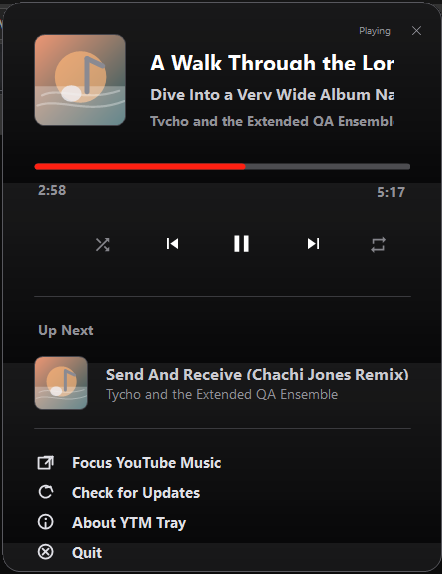
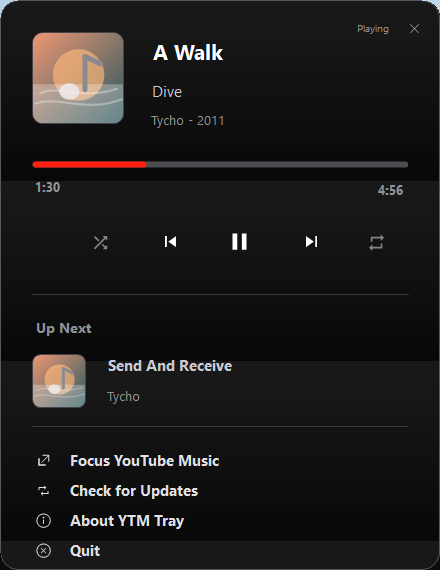
fix(windows-tray): keep stale playback controls accessible

diff --git a/tests/e2e/fixtures/player-loaded-paused.html b/tests/e2e/fixtures/player-loaded-paused.html
@@ -78,6 +78,7 @@
       </div>
       <span id="time-info">1:23 / 4:56</span>
       <input id="progress-bar" max="296" min="0" type="range" value="83" />
+      <video class="html5-main-video"></video>
       <ytmusic-player-queue-item selected>
         <img
           class="image"
@@ -117,9 +118,44 @@
         window.__ytmTestEvents.push("window-focused");
       });
       const playPauseButton = document.querySelector("#play-pause-button");
+      const progressBar = document.querySelector("#progress-bar");
+      const timeInfo = document.querySelector("#time-info");
+      const video = document.querySelector("video.html5-main-video");
+      let progressTimer = null;
+
+      function formatTime(totalSeconds) {
+        const minutes = Math.floor(totalSeconds / 60);
+        const seconds = String(totalSeconds % 60).padStart(2, "0");
+        return `${minutes}:${seconds}`;
+      }
+
+      function publishMediaUpdate(eventName = "timeupdate") {
+        video.dispatchEvent(new Event(eventName));
+        if (eventName !== "timeupdate") {
+          video.dispatchEvent(new Event("timeupdate"));
+        }
+      }
+
+      function advanceProgress() {
+        const max = Number(progressBar.max);
+        const current = Number(progressBar.value);
+        const next = Math.min(max, current + 1);
+        progressBar.value = String(next);
+        timeInfo.textContent = `${formatTime(next)} / ${formatTime(max)}`;
+        publishMediaUpdate();
+      }
+
+      function startProgressUpdates() {
+        if (progressTimer !== null) return;
+        progressTimer = window.setInterval(advanceProgress, 1000);
+      }
+
       playPauseButton.addEventListener("click", () => {
         playPauseButton.setAttribute("title", "Pause");
         playPauseButton.setAttribute("aria-label", "Pause");
+        startProgressUpdates();
+        advanceProgress();
+        publishMediaUpdate("play");
         window.__ytmTestEvents.push("player-play-clicked");
         window.__ytmTestEvents.push("player-play-pause-clicked");
       });

diff --git a/tests/e2e/windows-tray-connector.spec.ts b/tests/e2e/windows-tray-connector.spec.ts
@@ -412,11 +412,25 @@ function Save-RectangleScreenshot {
   }
 }
 
+function Move-CursorAwayFromRectangle {
+  param([Parameter(Mandatory = $true)] $Rect)
+  $ScreenBounds = [System.Windows.Forms.Screen]::PrimaryScreen.Bounds
+  $X = [int]($ScreenBounds.Right - 16)
+  $Y = [int]($ScreenBounds.Top + 16)
+  if ($Rect.Contains($X, $Y)) {
+    $X = [int]($ScreenBounds.Left + 16)
+    $Y = [int]($ScreenBounds.Bottom - 16)
+  }
+  [NativeInput]::SetCursorPos($X, $Y) | Out-Null
+  Start-Sleep -Milliseconds 700
+}
+
 function Save-TrayPopupScreenshot {
   param([Parameter(Mandatory = $true)][string] $Path)
   $PopupWindow = Open-TrayPopup
   Activate-Window $PopupWindow
-  Save-RectangleScreenshot -Path $Path -Rect $PopupWindow.Current.BoundingRectangle -Padding 2
+  Move-CursorAwayFromRectangle $PopupWindow.Current.BoundingRectangle
+  Save-RectangleScreenshot -Path $Path -Rect $PopupWindow.Current.BoundingRectangle -Padding 0
 }
 
 function Click-PopupElementByName {
@@ -644,7 +658,7 @@ test("routes Windows tray buttons through the browser native messaging host", as
     await expectFixtureEvent(ytmPage, "player-play-clicked");
     await expectFixtureEvent(ytmPage, "player-play-pause-clicked");
     if (promoScreenshotPath && testInfo.project.name === "edge") {
-      await ytmPage.waitForTimeout(1500);
+      await ytmPage.waitForTimeout(500);
       await captureTrayPromoScreenshot(
         testInfo.outputPath("tray-screenshot.json"),
         promoScreenshotPath,

diff --git a/tests/apps/windows-tray-scaffold.test.ts b/tests/apps/windows-tray-scaffold.test.ts
@@ -124,10 +124,14 @@ describe("Windows tray connector scaffold", () => {
     expect(popupForm).toContain("Install Update {version}");
     expect(popupForm).toContain('"About YTM Tray"');
     expect(popupForm).toContain("ToolTip controlTips");
+    expect(popupForm).toContain("private bool hasPlayableTrack");
     expect(popupForm).toContain(
       "ShowControlStatus(status, ControlStatusTextColor(status), !isNeutral)",
     );
     expect(popupForm).toContain('artistYearLabel.Text = ""');
+    expect(popupForm).toContain('statusLabel.Text = "Updating"');
+    expect(popupForm).toContain("if (hasPlayableTrack)");
+    expect(popupForm).toContain("SetControlsEnabled(true)");
     expect(popupForm).toContain("SetPlaybackButtonsVisible(false)");
     expect(popupForm).toContain(
       "visibleGroupWidth = iconWidth + visibleTextWidth",
@@ -185,6 +189,9 @@ describe("Windows tray connector scaffold", () => {
     const program = read("src/YTMTray/Program.cs");
     const visualSmoke = read("../../scripts/windows-qa/tray-visual-smoke.ps1");
     const buttonSmoke = read("../../tests/e2e/windows-tray-connector.spec.ts");
+    const pausedFixture = readRepo(
+      "tests/e2e/fixtures/player-loaded-paused.html",
+    );
     const releaseScreenshot = readRepo(
       "scripts/windows-qa/tray-release-screenshot.ps1",
     );
@@ -214,7 +221,11 @@ describe("Windows tray connector scaffold", () => {
     expect(buttonSmoke).toContain("YTME_WINDOWS_TRAY_SCREENSHOT_PATH");
     expect(buttonSmoke).toContain("Save-TrayPopupScreenshot");
     expect(buttonSmoke).toContain("Save-RectangleScreenshot");
+    expect(buttonSmoke).toContain("Move-CursorAwayFromRectangle");
     expect(buttonSmoke).toContain("tray-screenshot.json");
+    expect(pausedFixture).toContain('video class="html5-main-video"');
+    expect(pausedFixture).toContain("publishMediaUpdate");
+    expect(pausedFixture).toContain("setInterval(advanceProgress");
     expect(releaseScreenshot).toContain("YTME_WINDOWS_TRAY_SCREENSHOT_PATH");
     expect(releaseScreenshot).toContain("Remove-Item Env:YTM_TRAY_VISUAL_DEMO");
     expect(releaseScreenshot).toContain("Remove-Item Env:YTM_TRAY_SCROLL_QA");
@@ -223,6 +234,9 @@ describe("Windows tray connector scaffold", () => {
     );
     expect(releaseScreenshot).toContain("--project=edge");
     expect(remoteReleaseScreenshot).toContain("YTME_SCREENSHOT_BASE64_BEGIN");
+    expect(remoteReleaseScreenshot).toContain("final = block");
+    expect(remoteReleaseScreenshot).toContain("tr -cd 'A-Za-z0-9+/=\\n'");
+    expect(remoteReleaseScreenshot).toContain('<"$encoded_file"');
     expect(remoteReleaseScreenshot).toContain(
       "apps/windows-tray/release/windows-tray-screenshot.png",
     );

diff --git a/tests/apps/menu-bar-scaffold.test.ts b/tests/apps/menu-bar-scaffold.test.ts
@@ -6,6 +6,7 @@ import {
   statSync,
   writeFileSync,
 } from "node:fs";
+import { createHash } from "node:crypto";
 import { tmpdir } from "node:os";
 import { join, relative, resolve } from "node:path";
 import { pathToFileURL } from "node:url";
@@ -20,6 +21,10 @@ function read(relativePath: string): string {
 
 function readJson<T>(relativePath: string): T {
   return JSON.parse(read(relativePath)) as T;
+}
+
+function sha256Prefix(content: Buffer): string {
+  return createHash("sha256").update(content).digest("hex").slice(0, 12);
 }
 
 function toPosixPath(path: string): string {
@@ -1688,6 +1693,9 @@ describe("menu bar connector app scaffold", () => {
     const copiedWindowsTrayScreenshot = readFileSync(
       resolve(outputRoot, "site/assets/windows-tray-screenshot.png"),
     );
+    const windowsTrayScreenshotUrl =
+      "../assets/windows-tray-screenshot.png?v=" +
+      sha256Prefix(copiedWindowsTrayScreenshot);
     const copiedCliDemoVideo = readFileSync(
       resolve(outputRoot, "site/assets/cli-demo.webm"),
     );
@@ -1760,14 +1768,13 @@ describe("menu bar connector app scaffold", () => {
     expect(siteHome).toContain("assets/playback-controls.png");
     expect(connectedAppsPage).toContain("Connected Apps Beta");
     expect(connectedAppsPage).toContain("../assets/menu-bar-screenshot.png");
-    expect(connectedAppsPage).toContain(
-      "../assets/windows-tray-screenshot.png",
-    );
+    expect(connectedAppsPage).toContain(windowsTrayScreenshotUrl);
     expect(connectedAppsPage).toContain("Browser Support");
     expect(connectedAppsPage).toContain(
       "YTM Tray currently supports Chrome, Microsoft Edge, and Firefox.",
     );
     expect(windowsTrayPage).toContain("YTM Tray");
+    expect(windowsTrayPage).toContain(windowsTrayScreenshotUrl);
     expect(windowsTrayPage).toMatch(
       /Browser support: Chrome, Microsoft Edge, and Firefox/,
     );

diff --git a/tests/remote-qa-windows.test.ts b/tests/remote-qa-windows.test.ts
@@ -144,11 +144,15 @@ describe("Windows remote QA scaffold", () => {
       "tests/e2e/windows-tray-connector.spec.ts",
     );
     expect(releaseScreenshot).toContain("--project=edge");
+    expect(trayE2e).toContain("Move-CursorAwayFromRectangle");
     expect(releaseScreenshotShell).toContain(
       "scripts\\windows-qa\\tray-release-screenshot.ps1",
     );
     expect(releaseScreenshotShell).toContain("YTME_SCREENSHOT_BASE64_BEGIN");
+    expect(releaseScreenshotShell).toContain("final = block");
+    expect(releaseScreenshotShell).toContain("tr -cd 'A-Za-z0-9+/=\\n'");
     expect(releaseScreenshotShell).toContain("base64 --decode");
+    expect(releaseScreenshotShell).toContain('<"$encoded_file"');
     expect(trayE2e).toContain("Save-TrayPopupScreenshot");
     expect(trayE2e).toContain("YTME_WINDOWS_TRAY_SCREENSHOT_PATH");
   });

diff --git a/apps/windows-tray/src/YTMTray/PlaybackPopupForm.cs b/apps/windows-tray/src/YTMTray/PlaybackPopupForm.cs
@@ -55,6 +55,7 @@ internal sealed class PlaybackPopupForm : Form
     private readonly NativeAppLogger? logger;
     private readonly bool scrollDiagnosticsEnabled;
     private double currentDuration;
+    private bool hasPlayableTrack;
 
     [DesignerSerializationVisibility(DesignerSerializationVisibility.Hidden)]
     public Action? OnShuffle { get; set; }
@@ -124,6 +125,7 @@ internal sealed class PlaybackPopupForm : Form
         artistYearLabel.ForeColor = TertiaryTextColor;
         currentArtwork.SetArtworkUrl(null);
         currentDuration = 0;
+        hasPlayableTrack = false;
         UpdateProgress(0, 0);
         UpdateNextTrack(null);
         ShowControlStatus(status, ControlStatusTextColor(status), !isNeutral);
@@ -134,8 +136,14 @@ internal sealed class PlaybackPopupForm : Form
     {
         statusLabel.Text = "";
         statusLabel.ForeColor = WarningColor;
-        artistYearLabel.Text = "";
-        artistYearLabel.ForeColor = TertiaryTextColor;
+        if (hasPlayableTrack)
+        {
+            statusLabel.Text = "Updating";
+            HideControlStatus();
+            SetControlsEnabled(true);
+            return;
+        }
+
         ShowControlStatus("Waiting for playback updates...", WarningColor, true);
         SetControlsEnabled(false);
     }
@@ -160,6 +168,7 @@ internal sealed class PlaybackPopupForm : Form
         repeatButton.ButtonIcon = RepeatButtonIcon(state.RepeatMode);
         repeatButton.Active = (state.RepeatMode ?? "off") != "off";
         currentDuration = Math.Max(0, state.Duration);
+        hasPlayableTrack = hasTrack;
         UpdateProgress(state.Progress, state.Duration);
         UpdateNextTrack(state.NextTrack);
         if (hasTrack)